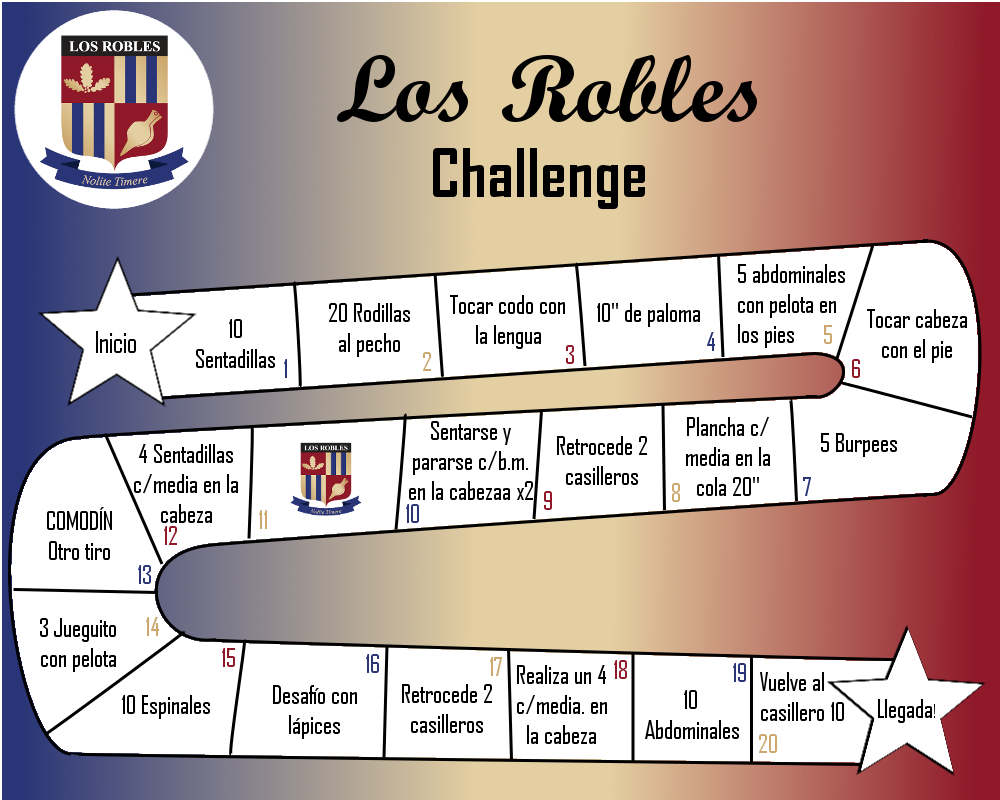
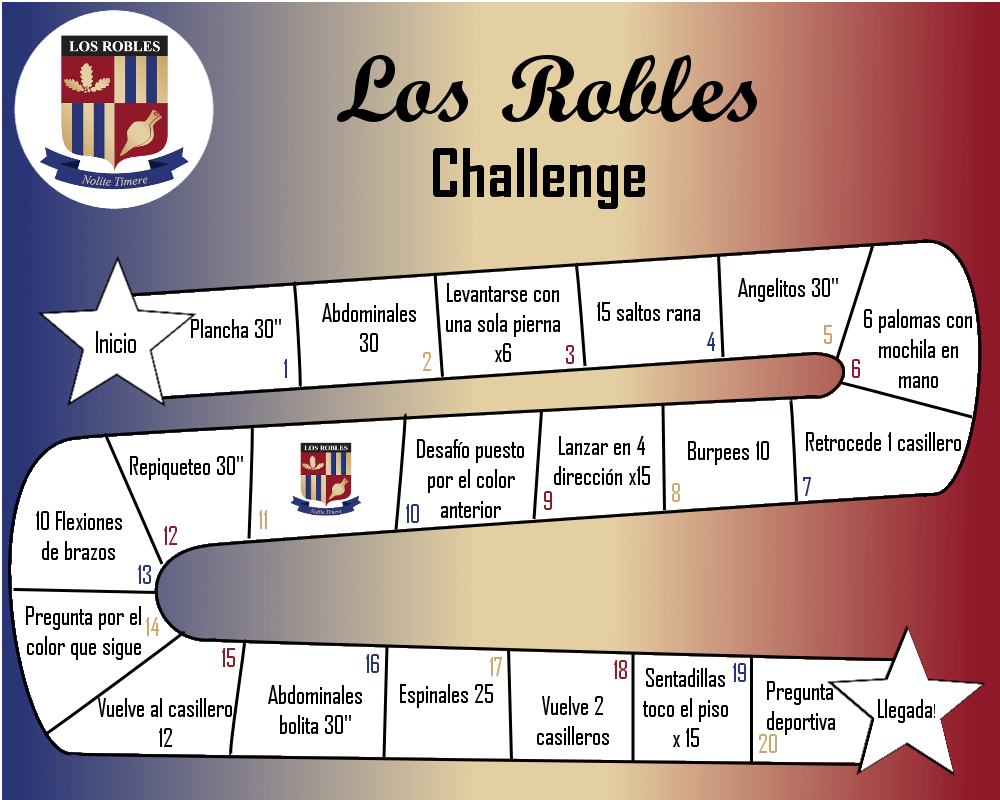
tablero anto

diff --git a/index.html b/index.html
@@ -68,7 +68,7 @@
       </div>
     </section>
     <section id="tablero">
-      <img class="tablero" src="LosRoblesChallengeMARIANO.png" alt="tablero" />
+      <img class="tablero" src="LosRoblesChallengeANTO.png" alt="tablero" />
     </section>
   </section>
   <script src="funciones.js"></script>
